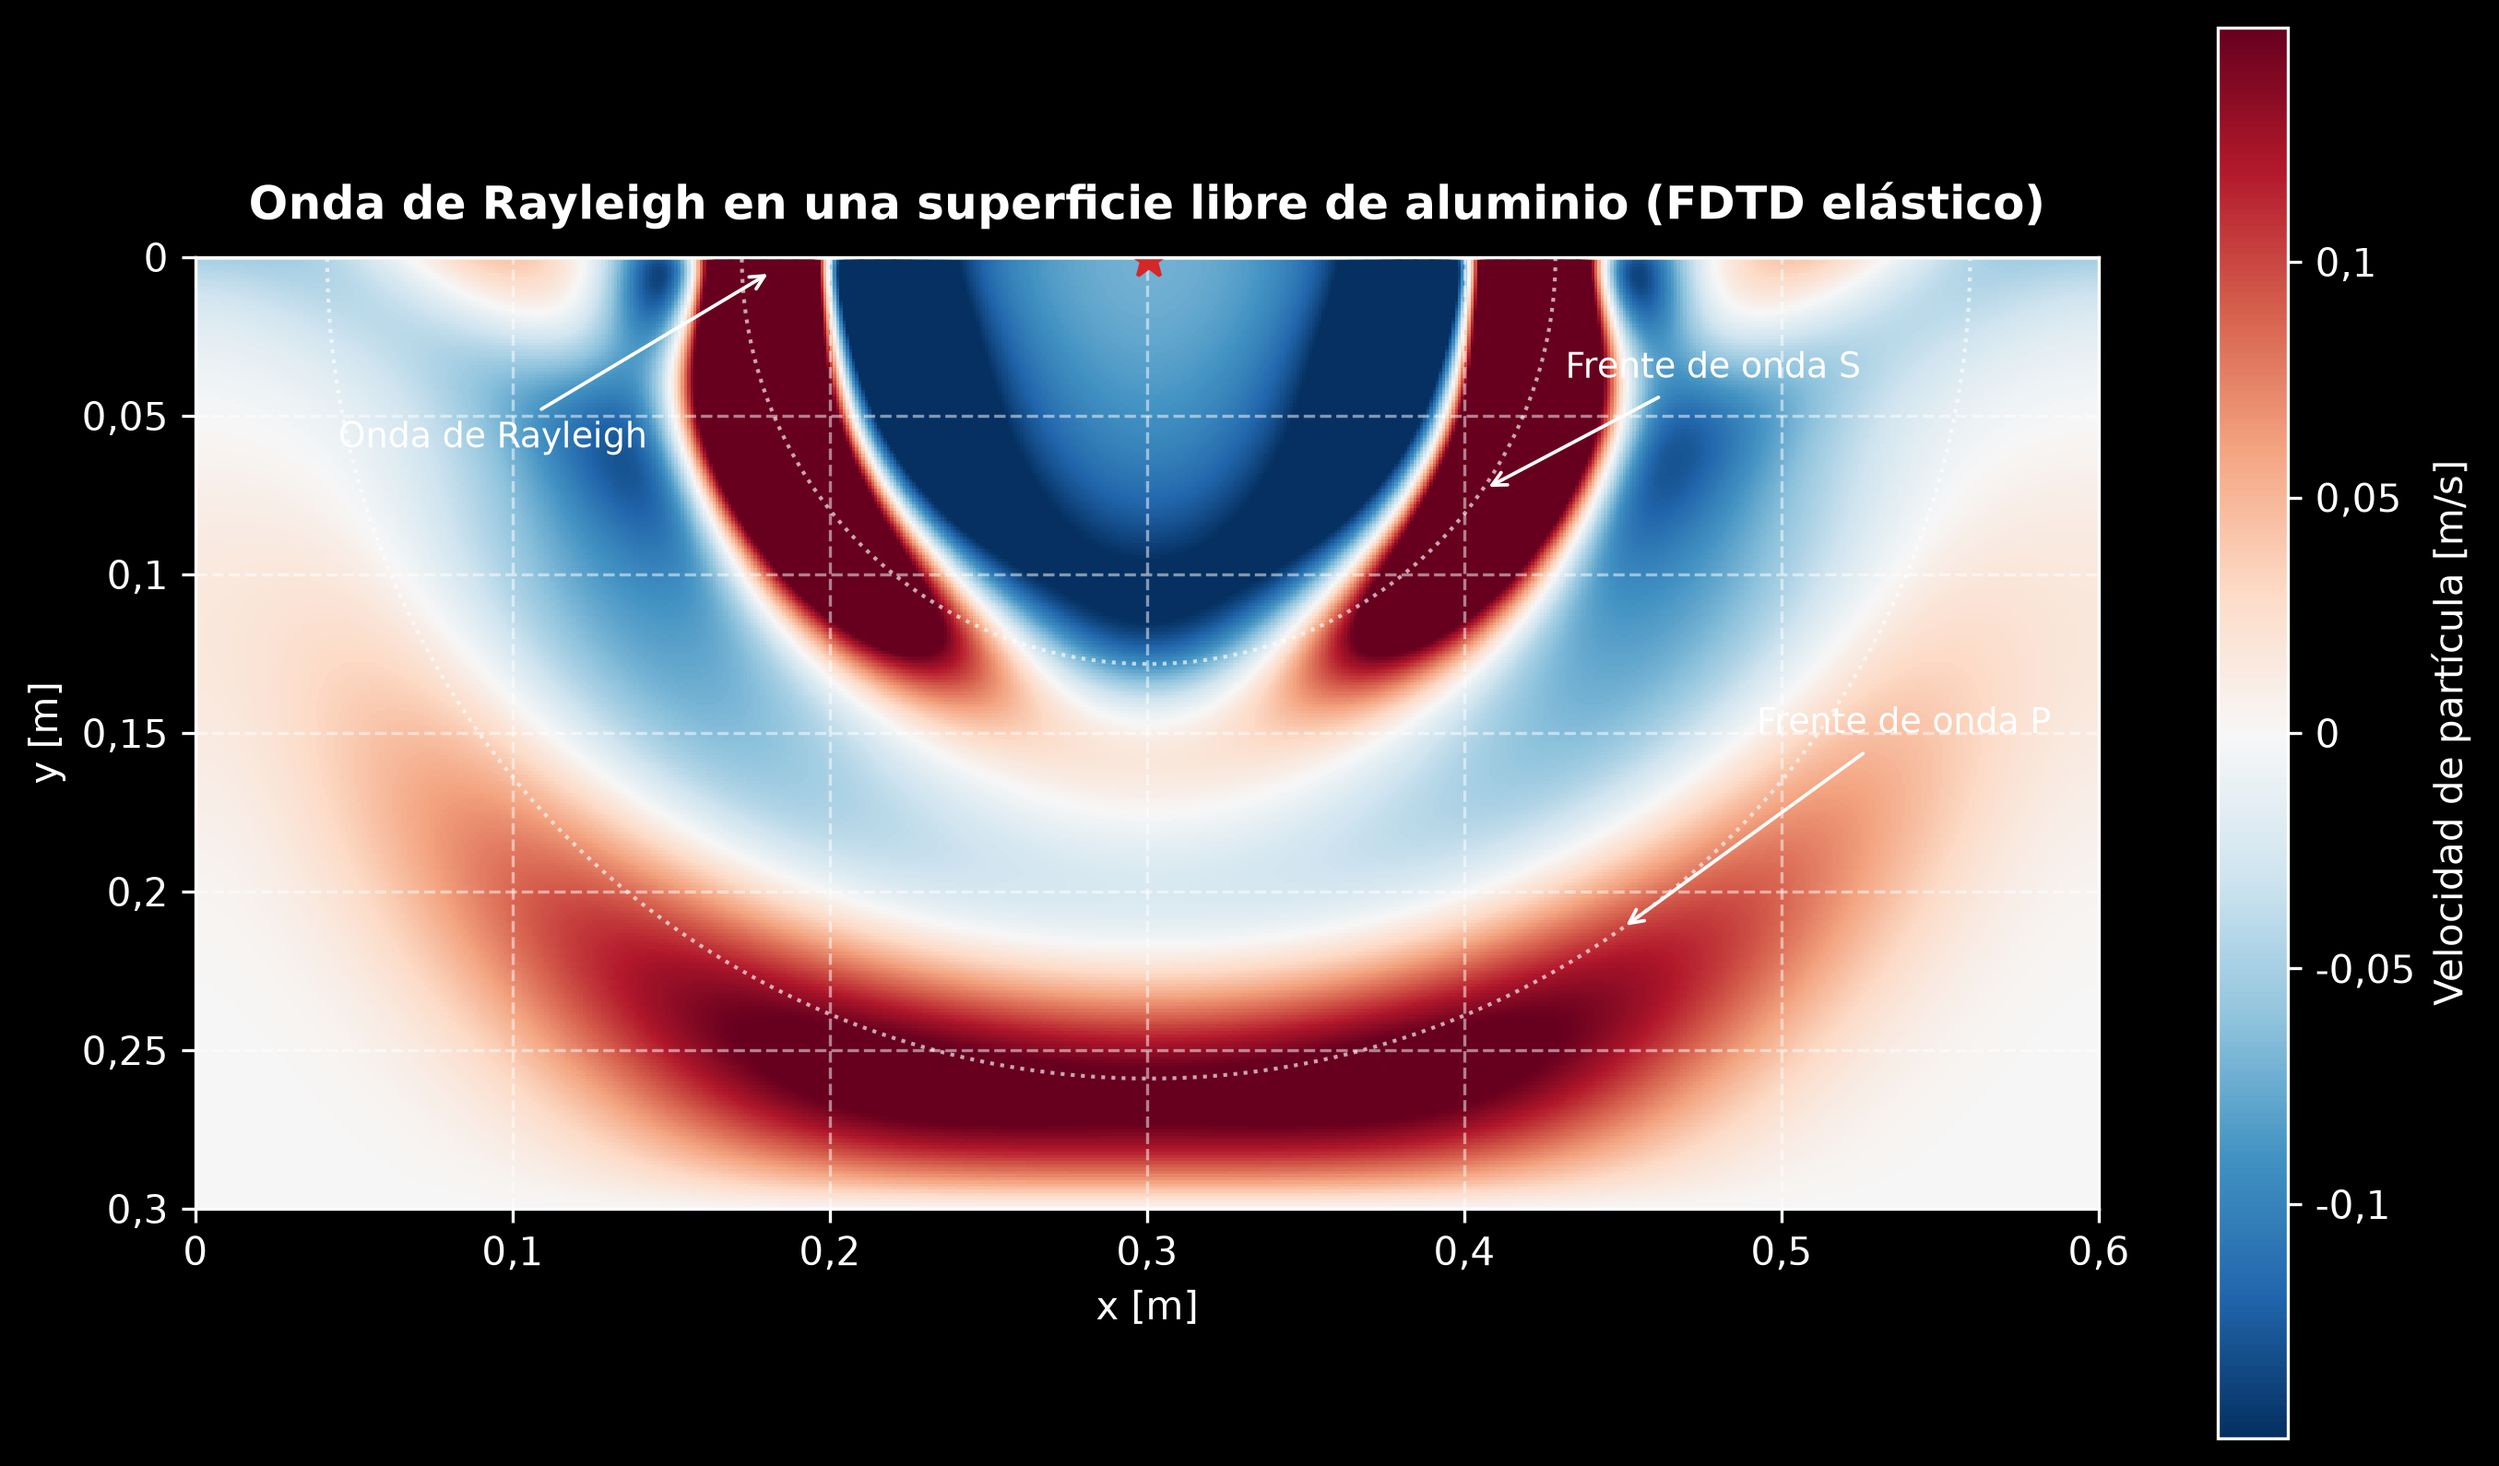
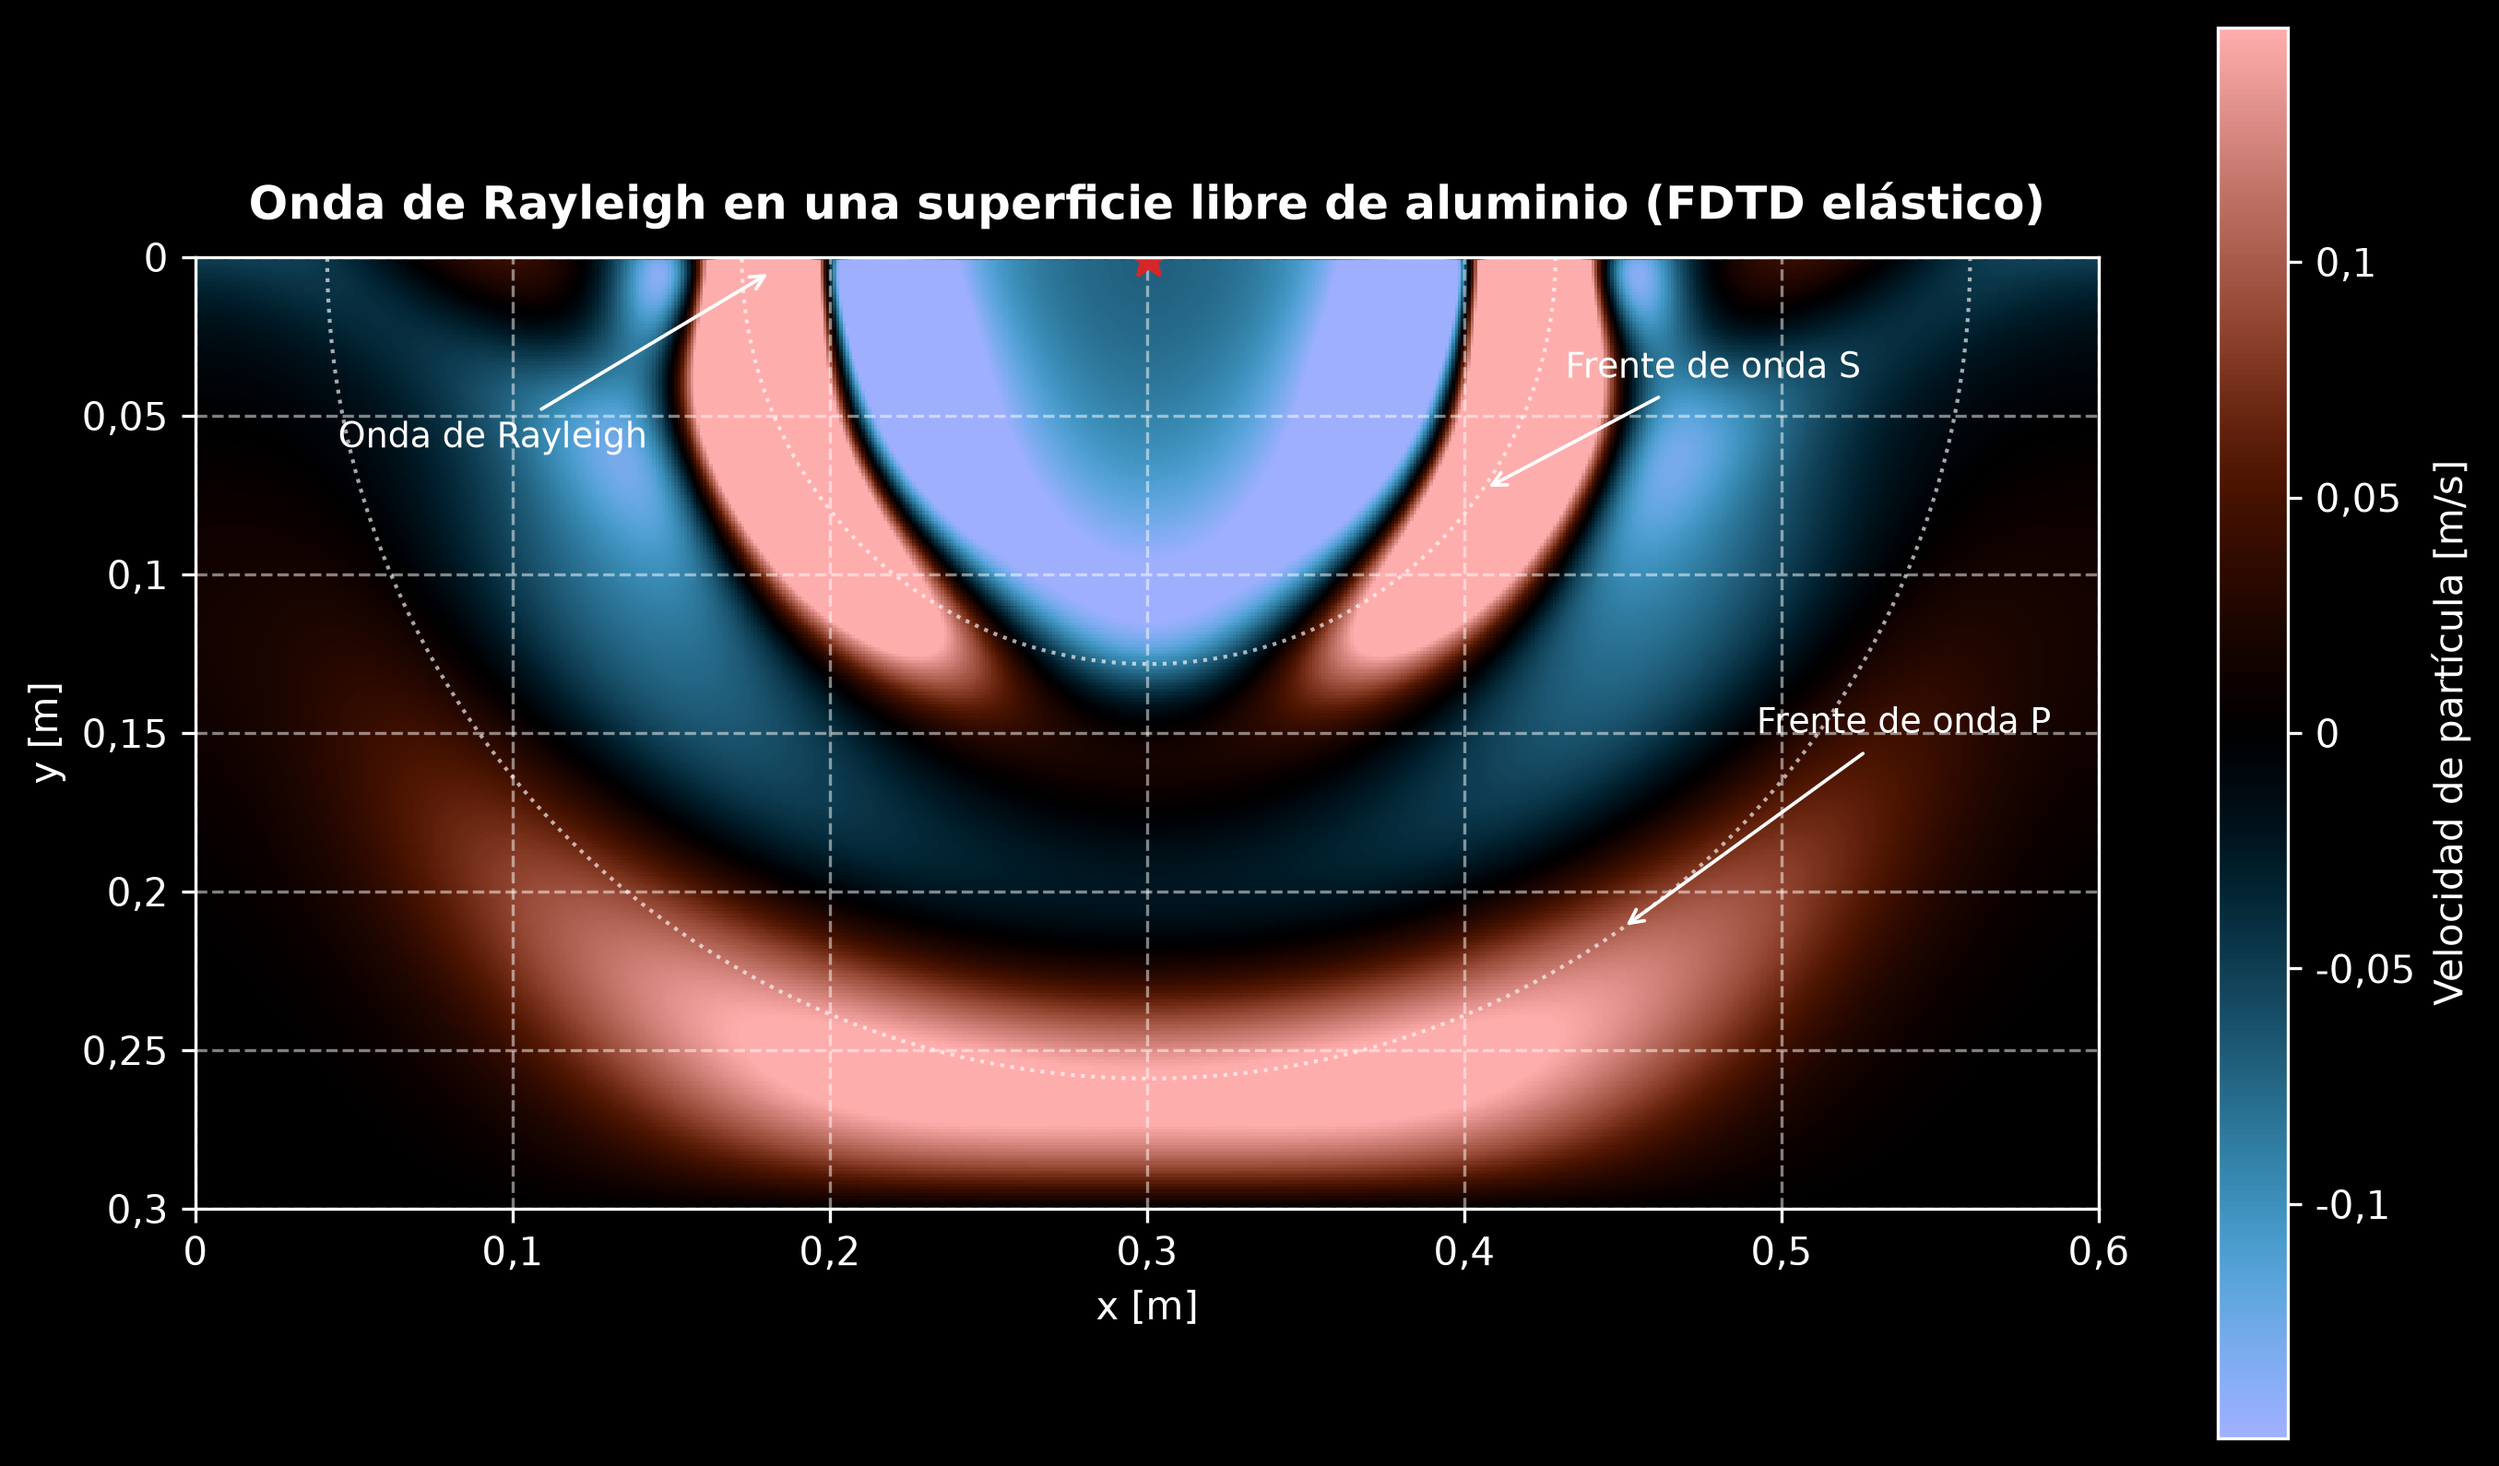
Background-aware wave-field colormap for the library renderers and the static field figures (#414)
The diverging default of the wave-field .plot() renderers (FDTD and
elastic snapshots, GFPE relative level) now follows the axes background:
RdBu_r keeps its white centre on a light background and the black-centred
phonometry_field_dark takes over on a dark one, so the zero of the field
blends into the page on both themes exactly as the animated clips already
do; an explicit cmap argument still overrides it. The colormap and its
registration move from the figure script into phonometry._plot.common
(registered on first use, and eagerly by the script for the clips that
address it by name).

The dark variants of the fdtd_simulation, elastic_halfspace_waves and
scholte_interface_wave figures pick the new default up through their
res.plot() calls, with the Scholte in-field annotations switching from
the fixed dark ink to the white FIELD_INK over the now-dark field. The
light variants come out byte for byte as before.

diff --git a/scripts/generate_graphs.py b/scripts/generate_graphs.py
@@ -26,7 +26,10 @@ from scipy import signal as scipy_signal
 sys.path.insert(0, os.path.abspath(os.path.join(os.path.dirname(__file__), "..", "src")))
 
 from phonometry import OctaveFilterBank
-from phonometry._plot.common import format_frequency_axis
+from phonometry._plot.common import (
+    _register_field_dark_cmap,
+    format_frequency_axis,
+)
 
 # Constants for professional styling
 # ---------------------------------------------------------------------------
@@ -1900,36 +1903,10 @@ COLOR_FG = "black"
 _FILENAME_SUFFIX = ""
 
 
-def _register_field_dark_cmap() -> None:
-    """Register ``phonometry_field_dark``, the dark-theme wave-field colormap.
-
-    Matplotlib's diverging ``berlin`` map anchors on a dark centre, but its
-    centre is a dark maroon that reads as a wash over the page background.
-    The registered map subtracts that centre bias instead of scaling it away:
-
-        out(x) = clip(berlin(x) - w(x) * berlin(0.5), 0, 1)
-
-    with the weight w(x) falling linearly from 1 at the centre to 0 at 60 %
-    amplitude. Zero pressure becomes true black -- the field blends into the
-    dark page exactly as the white centre of ``RdBu_r`` blends into the light
-    one -- while low-amplitude *differences* keep their size (a multiplicative
-    fade toward black would crush them into invisibility).
-    """
-    import matplotlib as mpl
-    from matplotlib.colors import LinearSegmentedColormap
-
-    if "phonometry_field_dark" in mpl.colormaps:
-        return
-    base = mpl.colormaps["berlin"]
-    xs = np.linspace(0.0, 1.0, 256)
-    cols = base(xs)[:, :3]
-    c0 = np.asarray(base(0.5)[:3])
-    w = np.clip(1.0 - np.abs(2.0 * xs - 1.0) / 0.6, 0.0, 1.0)
-    out = np.clip(cols - w[:, None] * c0, 0.0, 1.0)
-    mpl.colormaps.register(
-        LinearSegmentedColormap.from_list("phonometry_field_dark", out))
-
-
+# The dark-theme wave-field colormap (berlin with its centre bias subtracted
+# so zero maps to true black) now lives in the library, where the result
+# ``.plot()`` renderers pick it whenever the axes background is dark; the
+# clips address it by name, so it is registered eagerly here.
 _register_field_dark_cmap()
 
 # Theme-dependent wave-field styling, switched by set_theme(): the diverging
@@ -9948,9 +9925,11 @@ def generate_scholte_interface_wave(output_dir: str) -> None:
     assert res.snapshots is not None
     vmax = 0.22 * float(np.abs(res.snapshots[-1]).max())
     res.plot(kind="snapshot", frame=-1, ax=ax, vmin=-vmax, vmax=vmax)
-    # The RdBu field keeps a light background in both themes, so the
-    # in-axes annotations use a fixed dark ink rather than COLOR_FG.
-    ink = "#3a3a3a"
+    # The light RdBu_r field stays light everywhere, so its in-axes
+    # annotations keep a fixed dark ink rather than COLOR_FG; on the dark
+    # theme the renderer picks the black-centred field, which takes the
+    # white FIELD_INK of the animated clips.
+    ink = FIELD_INK if _FILENAME_SUFFIX else "#3a3a3a"
     ax.axhline(100.0, color=ink, linestyle=":", linewidth=1.0, alpha=0.75)
     ann: dict[str, Any] = {
         "fontsize": 9, "color": ink,

diff --git a/src/phonometry/_plot/common.py b/src/phonometry/_plot/common.py
@@ -73,6 +73,64 @@ _C_EDGE: Final = "#555555"
 #: Standard-normal quantile of 0.9 (the 10 % / 90 % fractile offset).
 _Z90: Final = 1.2816
 
+# ---------------------------------------------------------------------------
+# Signed wave-field colormaps: the zero of a diverging field should blend
+# into the page, so the default is picked from the axes background at draw
+# time -- RdBu_r (white centre) on a light background and the registered
+# phonometry_field_dark (black centre) on a dark one.
+# ---------------------------------------------------------------------------
+
+#: Diverging wave-field colormap of a light axes background (white centre).
+_FIELD_CMAP_LIGHT: Final = "RdBu_r"
+#: Diverging wave-field colormap of a dark axes background (black centre).
+_FIELD_CMAP_DARK: Final = "phonometry_field_dark"
+
+
+def _register_field_dark_cmap() -> None:
+    """Register ``phonometry_field_dark``, the dark-background wave-field map.
+
+    Matplotlib's diverging ``berlin`` map anchors on a dark centre, but its
+    centre is a dark maroon that reads as a wash over a dark page.  The
+    registered map subtracts that centre bias instead of scaling it away::
+
+        out(x) = clip(berlin(x) - w(x) * berlin(0.5), 0, 1)
+
+    with the weight ``w(x)`` falling linearly from 1 at the centre to 0 at
+    60 % amplitude.  Zero maps to true black -- the field blends into a dark
+    background exactly as the white centre of ``RdBu_r`` blends into a light
+    one -- while low-amplitude *differences* keep their size (a
+    multiplicative fade toward black would crush them into invisibility).
+    """
+    import matplotlib as mpl
+    from matplotlib.colors import LinearSegmentedColormap
+
+    if _FIELD_CMAP_DARK in mpl.colormaps:
+        return
+    base = mpl.colormaps["berlin"]
+    xs = np.linspace(0.0, 1.0, 256)
+    cols = base(xs)[:, :3]
+    c0 = np.asarray(base(0.5)[:3])
+    w = np.clip(1.0 - np.abs(2.0 * xs - 1.0) / 0.6, 0.0, 1.0)
+    out = np.clip(cols - w[:, None] * c0, 0.0, 1.0)
+    mpl.colormaps.register(
+        LinearSegmentedColormap.from_list(_FIELD_CMAP_DARK, out))
+
+
+def _field_cmap(ax: Axes) -> str:
+    """Background-aware diverging colormap name for a signed wave field.
+
+    Reads the axes patch color (so a ``dark_background`` style, or any
+    explicitly dark facecolor, is honoured) and returns the map whose centre
+    matches it.  Registers :data:`_FIELD_CMAP_DARK` on first use, so the name
+    is also available for an explicit ``cmap`` override.
+    """
+    from matplotlib.colors import to_rgb
+
+    _register_field_dark_cmap()
+    r, g, b = to_rgb(ax.get_facecolor())
+    luminance = 0.2126 * r + 0.7152 * g + 0.0722 * b
+    return _FIELD_CMAP_DARK if luminance < 0.5 else _FIELD_CMAP_LIGHT
+
 #: Common axis labels reused across the underwater-propagation plots.
 _LABEL_DEPTH_M: Final = "Depth [m]"
 _LABEL_TL_DB: Final = "Transmission loss [dB]"

diff --git a/src/phonometry/_plot/simulation.py b/src/phonometry/_plot/simulation.py
@@ -7,7 +7,7 @@ from typing import TYPE_CHECKING, Any
 
 import numpy as np
 
-from .common import _C_MUTED, _C_REFERENCE, _new_axes
+from .common import _C_MUTED, _C_REFERENCE, _field_cmap, _new_axes
 
 if TYPE_CHECKING:
     from collections.abc import Sequence
@@ -119,7 +119,7 @@ def _render_snapshot(
     img = ax.imshow(
         field,
         **{
-            "cmap": "RdBu_r",
+            "cmap": _field_cmap(ax),
             "vmin": -vmax,
             "vmax": vmax,
             "origin": "upper",
@@ -190,7 +190,10 @@ def plot_fdtd_snapshot(
 
     The field is rendered as a single raster image (``imshow``, symmetric
     diverging scale); rigid obstacle cells are drawn in grey and the source
-    and probe cells are marked.
+    and probe cells are marked.  The default colormap follows the axes
+    background so zero pressure blends into the page -- ``RdBu_r`` on a
+    light background, the black-centred ``phonometry_field_dark`` on a dark
+    one -- and ``cmap`` overrides it.
 
     :param result: A :class:`~phonometry.simulation.fdtd.FDTDResult` with
         recorded snapshots.
@@ -282,7 +285,9 @@ def plot_elastic_snapshot(
 
     Renders the recorded ``snapshot_field`` (synthetic pressure or one
     velocity component, at cell centres) with the same raster styling as
-    the acoustic snapshot renderer.
+    the acoustic snapshot renderer, including its background-aware default
+    colormap (``RdBu_r`` on a light axes background, the black-centred
+    ``phonometry_field_dark`` on a dark one; ``cmap`` overrides it).
 
     :param result: An
         :class:`~phonometry.simulation.elastic_fdtd.ElasticFDTDResult`

diff --git a/tests/simulation/test_fdtd.py b/tests/simulation/test_fdtd.py
@@ -585,6 +585,25 @@ def test_plot_snapshot(small_result: FDTDResult) -> None:
     plt.close(ax.figure)
 
 
+def test_plot_snapshot_cmap_follows_background(small_result: FDTDResult) -> None:
+    """Diverging default: white-centred on light axes, black-centred on dark."""
+    ax = small_result.plot(kind="snapshot")
+    assert ax.get_images()[0].get_cmap().name == "RdBu_r"
+    plt.close(ax.figure)
+
+    _fig, dark_ax = plt.subplots()
+    dark_ax.set_facecolor("black")
+    ax = small_result.plot(kind="snapshot", ax=dark_ax)
+    assert ax.get_images()[0].get_cmap().name == "phonometry_field_dark"
+    plt.close(ax.figure)
+
+    _fig, dark_ax = plt.subplots()
+    dark_ax.set_facecolor("black")
+    ax = small_result.plot(kind="snapshot", ax=dark_ax, cmap="viridis")
+    assert ax.get_images()[0].get_cmap().name == "viridis"
+    plt.close(ax.figure)
+
+
 def test_plot_rejects_unknown_kind_and_missing_snapshots() -> None:
     res = fdtd_simulation(C0, 0.05, 1e-3, shape=(20, 20),
                           sources=[GaussianPulse(ix=5, iy=5, width=1e-4)],

diff --git a/src/phonometry/_plot/environmental.py b/src/phonometry/_plot/environmental.py
@@ -17,6 +17,7 @@ from .common import (
     _C_TERTIARY,
     _LEGEND_UPPER_RIGHT,
     _band_axis,
+    _field_cmap,
     _freq_axis,
     _new_axes,
     format_frequency_axis,
@@ -456,7 +457,10 @@ def plot_atmospheric_pe(
 
     The field is drawn as a single raster image (``imshow``): per-cell vector
     quads are avoided so the figure stays light and free of moire (the repo's
-    pcolormesh-in-SVG policy).
+    pcolormesh-in-SVG policy).  The default diverging colormap follows the
+    axes background so the centre of the scale blends into the page --
+    ``RdBu_r`` on a light background, the black-centred
+    ``phonometry_field_dark`` on a dark one -- and ``cmap`` overrides it.
 
     :param result: An
         :class:`~phonometry.environmental.atmospheric_refraction.AtmosphericPEResult`.
@@ -478,7 +482,7 @@ def plot_atmospheric_pe(
     img = ax.imshow(
         dl,
         **{
-            "cmap": "RdBu_r",
+            "cmap": _field_cmap(ax),
             "vmin": -30.0,
             "vmax": vmax,
             "aspect": "auto",
